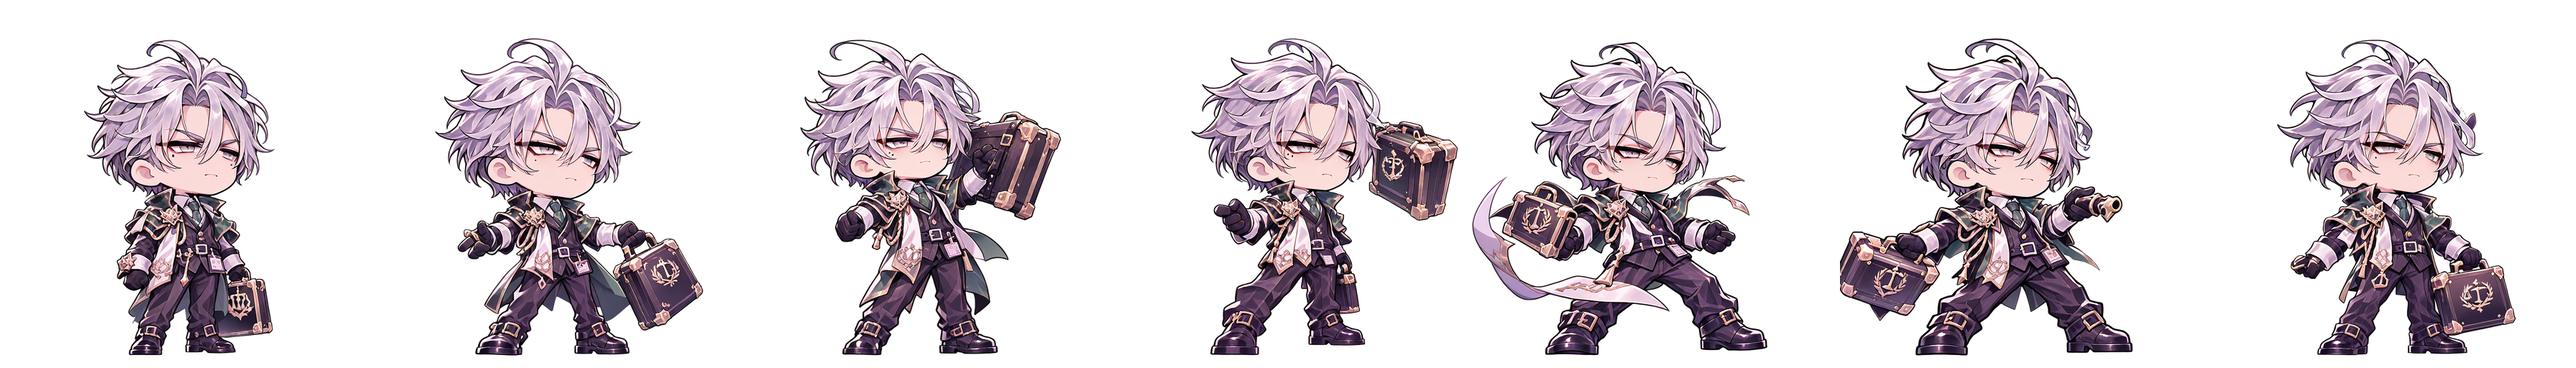
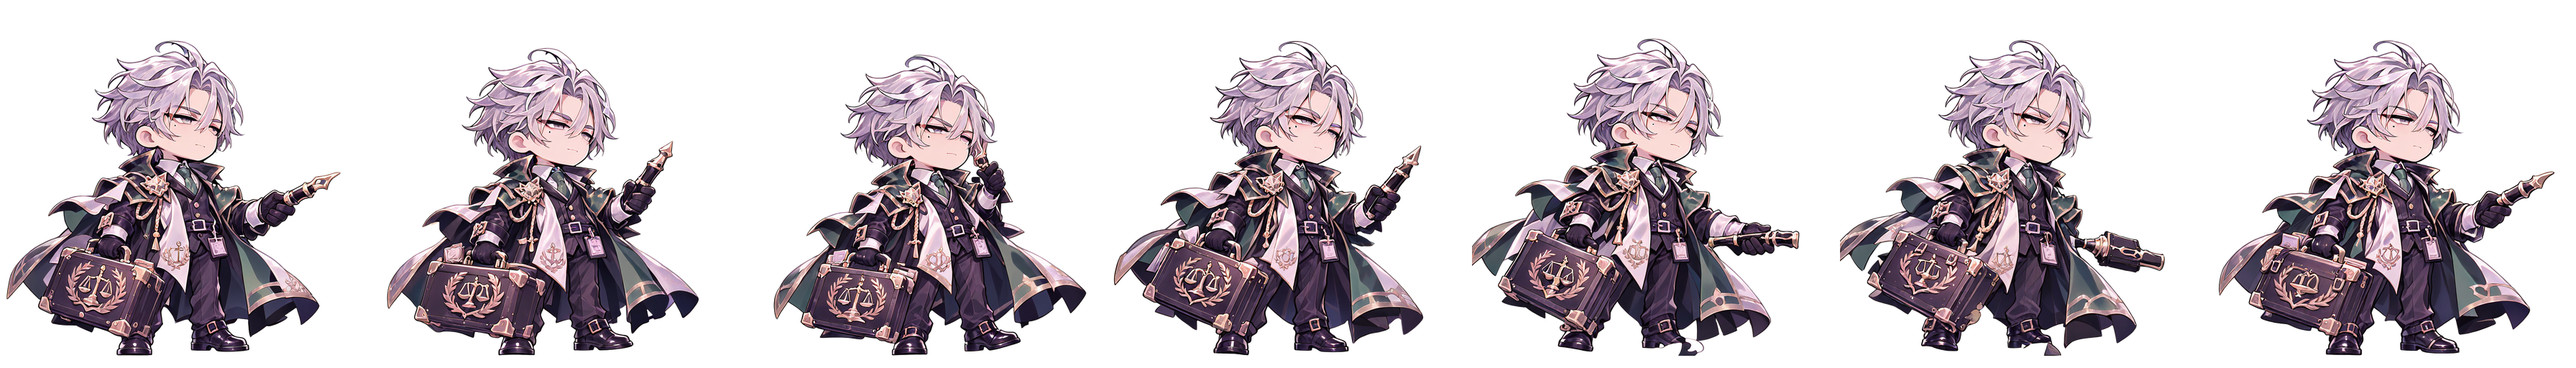
feat(bailu): 白律專屬普攻「審判筆突刺」7 格＋專屬時序
使用者：角色應該要有自己動作，不共用同一套動作模式。
- 7 格由分層白律擺構圖後本機重繪，每格為完整姿勢
- bailu-timing.mjs：專屬非等速節奏與突進距離（含測試）
已重讀 ART-RULES-1.0；候選。

diff --git a/v19/bailu-frames.html b/v19/bailu-frames.html
@@ -11,13 +11,14 @@ button{border:1px solid #d8b25a;border-radius:8px;background:linear-gradient(#3a
 </style></head><body><div id="wrap">
 <canvas id="world" width="720" height="620"></canvas>
 <div id="panel"><h1>勞權律師・白律｜逐格動作驗收</h1>
-<p>與薪奴相同做法：攻擊 7 個獨立姿勢、受擊 5 個獨立姿勢，沿用遊戲現有的非等速時序（attack-timing / hurt-timing / hurt-effects），不改薪奴檔案。素材狀態：候選。</p>
+<p>白律專屬「審判筆突刺」：7 個獨立姿勢、白律自己的非等速節奏與突進距離；做法與薪奴相同：攻擊 7 個獨立姿勢、受擊 5 個獨立姿勢，沿用遊戲現有的非等速時序（attack-timing / hurt-timing / hurt-effects），不改薪奴檔案。素材狀態：候選。</p>
 <div class="b"><button data-a="attack">普攻</button><button data-a="hurt">受擊</button><button data-a="loop">連續演示</button>
 <button data-a="hero">對照：薪奴普攻</button><button data-a="herohurt">對照：薪奴受擊</button><button data-a="slow">慢速 ×0.25</button></div></div></div>
 <script type="module">
 import {CHIBI_ATTACK_V2_TOTAL_MS,attackFrameAt,attackPhaseAt,validateAttackAtlas} from './attack-timing.mjs';
 import {validateHurtAtlas} from './hurt-timing.mjs';
 import {HIT_FEEDBACK_MS,hurtEffectAt} from './hurt-effects.mjs';
+import {BAILU_ATTACK_TOTAL_MS,bailuFrameAt,bailuLungeAt,BAILU_IMPACT_MS,BAILU_IMPACT_FRAME} from './bailu-timing.mjs';
 const cv=document.getElementById('world'),ctx=cv.getContext('2d');
 const load=s=>new Promise((r,j)=>{const i=new Image();i.onload=()=>r(i);i.onerror=j;i.src=s;});
 const B='../art/characters/office-lawyer/animations/',H='../art/v19/candidates/characters/starter/chibi/';
@@ -31,8 +32,9 @@ function frame(now){
  const t=(now-start)*speed;
  ctx.drawImage(bg,0,0,720,620);
  // 敵人（遊戲既有逐格怪物）
- const ph=mode==='attack'?attackPhaseAt(t):null;
- const hitT=ph&&!ph.finished?t-405:-1;
+ const impactAt=who==='bailu'?BAILU_IMPACT_MS:405;
+ const done=who==='bailu'?bailuFrameAt(t)<0:attackFrameAt(t)<0;
+ const hitT=mode==='attack'&&!done?t-impactAt:-1;
  const struck=hitT>=0&&hitT<300;
  const gimg=struck?golemHurt:golem,gc=struck?3:4,gi=struck?Math.min(2,Math.floor(hitT/100)):Math.floor(now/225)%4;
  const knock=struck?Math.max(0,1-hitT/300)*26:0;
@@ -40,12 +42,13 @@ function frame(now){
  const s=SETS[who];
  let drawn=false;
  // 與 app.mjs 薪奴相同的突進曲線：345ms 前站定 → 60ms 衝 106px → 命中保持 → 155ms 退回
- const lunge=mode==='attack'?(t<345?0:t<405?(t-345)/60*106:t<650?106:106*Math.max(0,1-(t-650)/155)):0;
+ const heroLunge=t<345?0:t<405?(t-345)/60*106:t<650?106:106*Math.max(0,1-(t-650)/155);
+ const lunge=mode==='attack'?(who==='bailu'?bailuLungeAt(t):heroLunge):0;
  ctx.save();ctx.translate(lunge,0);
  if(mode==='attack'){
-  const f=attackFrameAt(t);
+  const f=who==='bailu'?bailuFrameAt(t):attackFrameAt(t);
   if(f>=0){const c=validateAttackAtlas(s.atk.naturalWidth,s.atk.naturalHeight)||512;ctx.drawImage(s.atk,f*c,0,c,c,HERO_X-25,FLOOR-298,306,306);drawn=true;
-   if(f===4){spark(ENEMY_X+40,FLOOR-150,(t-405)/145);}}
+   if(f===4){spark(ENEMY_X+40,FLOOR-150,(t-impactAt)/145);}}
   else mode='idle';
  }else if(mode==='hurt'){
   const e=hurtEffectAt(t);
@@ -75,7 +78,7 @@ requestAnimationFrame(frame);
 const play=(m,w='bailu')=>{who=w;mode=m;start=performance.now();};
 const A={attack:()=>play('attack'),hurt:()=>play('hurt'),hero:()=>play('attack','hero'),herohurt:()=>play('hurt','hero'),
  slow:()=>{speed=speed===1?.25:1;document.querySelector('[data-a=slow]').textContent=speed===1?'慢速 ×0.25':'正常速度';},
- loop:async()=>{const s=ms=>new Promise(r=>setTimeout(r,ms));for(const m of ['attack','attack','hurt','attack']){play(m);await s((m==='attack'?CHIBI_ATTACK_V2_TOTAL_MS:HIT_FEEDBACK_MS)/speed+250);}}};
+ loop:async()=>{const s=ms=>new Promise(r=>setTimeout(r,ms));for(const m of ['attack','attack','hurt','attack']){play(m);await s((m==='attack'?BAILU_ATTACK_TOTAL_MS:HIT_FEEDBACK_MS)/speed+250);}}};
 for(const b of document.querySelectorAll('button'))b.onclick=()=>A[b.dataset.a]();
 window.__frames={A,play};
 </script></body></html>

diff --git a/docs/characters/office-lawyer/ASSET_LEDGER.md b/docs/characters/office-lawyer/ASSET_LEDGER.md
@@ -18,3 +18,4 @@
 2026-11-19｜rig 修正｜rig/rig.json｜—｜使用者回饋「頭接在奇怪的地方」｜CANDIDATE｜頭部右移 38、下移 6（rig 像素），下巴對準衣領；頸部樞紐同步；rig.json 改存 UTF-8
 2026-11-19｜rig v2｜layers/rig/*.webp（原始全尺寸：layers/v2_src/）｜—｜全部由 references/bailu_reference.png 拆出；頸部、公文包後方以本機 inpaint 補畫（LoRA 0.7＋IPA 0.6，seed 33），遮罩內輪廓取參考圖｜CANDIDATE｜組回與參考圖平均像素差 0.18；使用者回饋「頭完全接歪」已解決（同一張圖角度一致）；v1 保留於 layers/rig_v1
 2026-11-19｜bailu attack 7 / hurt 5（逐格）｜art/characters/office-lawyer/animations/attack-7pose-512.png、hurt-5pose-384.png｜3584×512、1920×384｜本機 img2img：以薪奴 7＋5 姿勢為構圖、白律 LoRA 0.9＋參考圖畫風 0.6、denoise 0.72；每格挑 3 版之一；build_atlas.py 統一身高與腳底錨點｜CANDIDATE｜沿用遊戲 attack-timing [115,135,95,60,145,100,155]、hurt-timing、hurt-effects 與 app.mjs 突進曲線；薪奴檔案未修改。待修：普攻沿用薪奴「公文包揮擊」動作，白律專屬「審判筆突刺」7 格尚未製作
+2026-11-19｜bailu attack 7（審判筆突刺，白律專屬）｜animations/attack-7pose-512.png（取代借用薪奴動作的版本）｜3584×512｜分層白律擺 7 個突刺構圖 → 本機 img2img 重繪（denoise 0.55、LoRA 0.85、參考圖畫風 0.6）｜CANDIDATE｜白律專屬時序 v19/bailu-timing.mjs [130,150,125,45,165,110,150]、突進 52px；受擊 5 格沿用上一版
